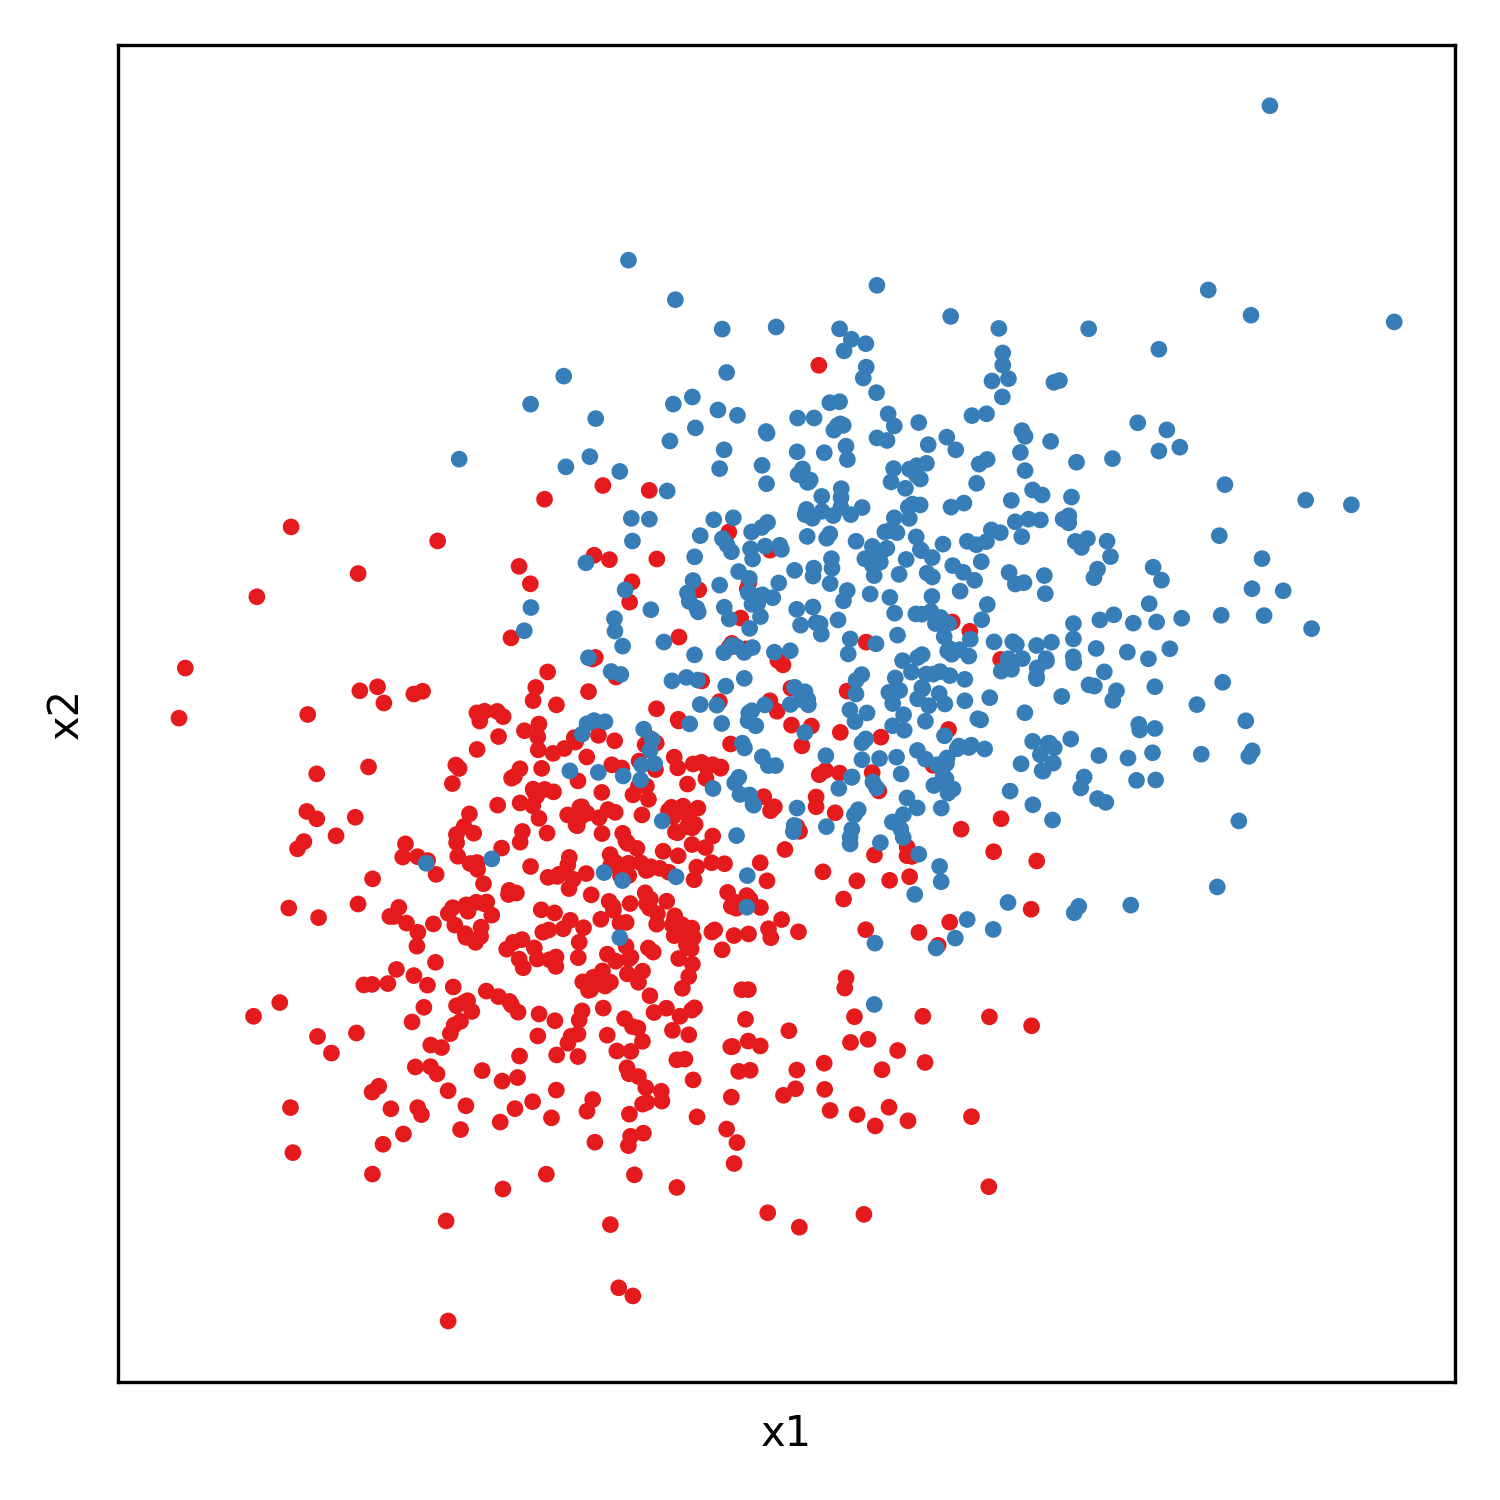
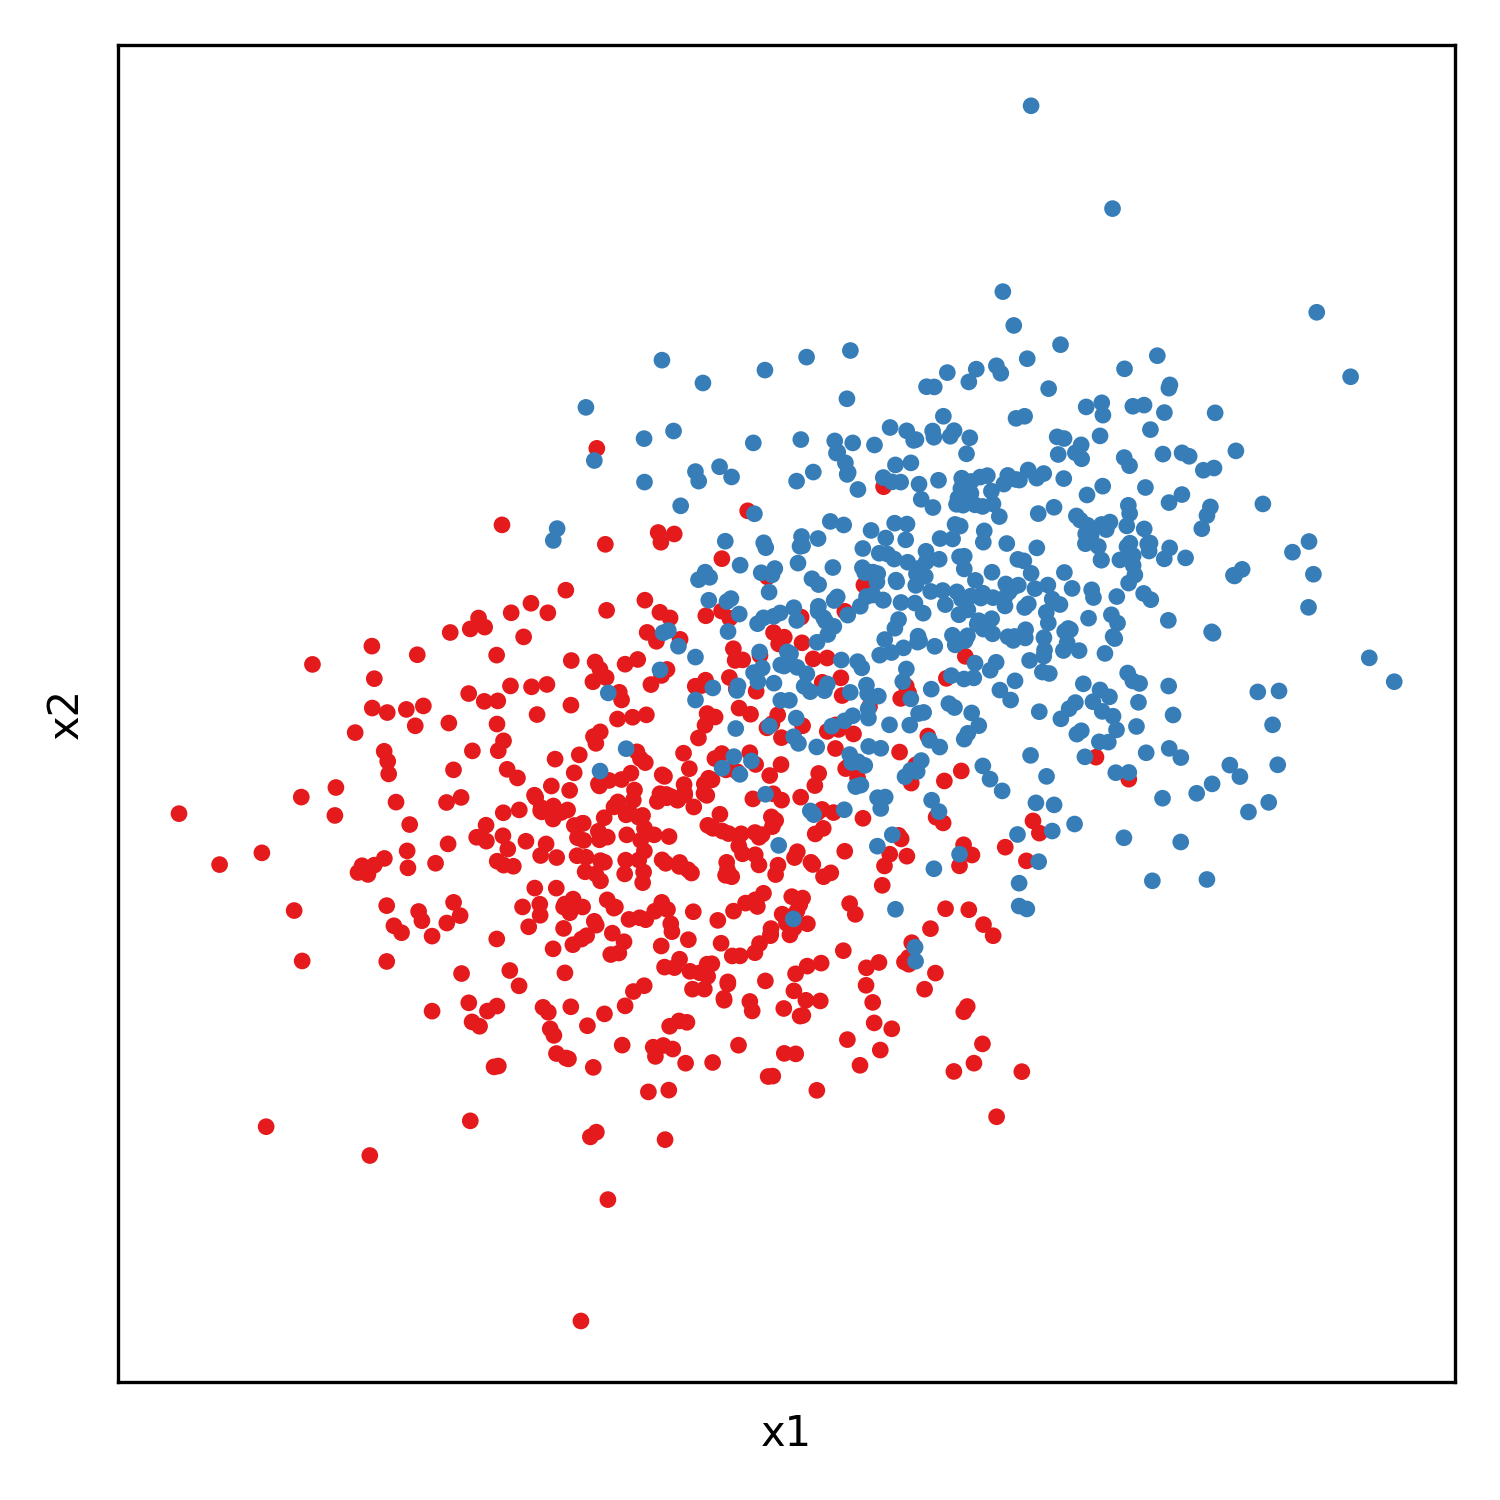
modified k nearest neighbours and target functions

diff --git a/introduction_to_machine_learning/images/k_nearest_neighbours/k_nearest_neighbours.py b/introduction_to_machine_learning/images/k_nearest_neighbours/k_nearest_neighbours.py
@@ -3,19 +3,15 @@ from mpl_toolkits import mplot3d
 import matplotlib.pyplot as plt
 import pathlib
 import IPython
+import matplotlib as mpl
 
 path = pathlib.Path(__file__).parent
 
+import sys
+sys.path.append(str(path.parent))
+from models_data import target, regression_data, classification_data
+
 # regression
-N = 1000
-Xobs = np.random.uniform(-1, 1, size=(N, 2))
-
-
-def target(X) -> np.ndarray:
-    x = X[..., None]
-    mu0, s0 = np.array([[-0.5, -0.5]]), 0.3
-    mu1, s1 = np.array([[0.5, 0.5]]), 0.3
-    return np.exp(-0.5*(np.sum(((X - mu0)/s0)**2, axis=-1))) - np.exp(-0.5*(np.sum(((X - mu1)/s1)**2, axis=-1)))
 
 
 def model(X: np.ndarray, Xobs: np.ndarray, Yobs: np.ndarray, k: int) -> np.ndarray:
@@ -24,16 +20,15 @@ def model(X: np.ndarray, Xobs: np.ndarray, Yobs: np.ndarray, k: int) -> np.ndarr
     return np.mean(Yobs[neighbours], axis=1)
 
 
-Yobs = target(Xobs) + np.random.normal(0, 0.1, size=Xobs.shape[0])
+Xobs, Yobs = regression_data()
 
 X = np.stack(np.meshgrid(np.linspace(-1, 1, 100), np.linspace(-1, 1, 100)), axis=-1)
 Y = model(X.reshape(-1, 2), Xobs, Yobs, k=5).reshape(X.shape[:2])
 
-f = plt.figure(figsize=[10, 5])
-ax = f.add_subplot(121, projection="3d")
-ax.scatter(Xobs[:, 0], Xobs[:, 1], Yobs, marker=".", color="k", depthshade=False, zorder=1)
+f = plt.figure(figsize=[5, 5])
+ax = f.add_subplot(111, projection="3d")
 
-ax.plot_surface(X[..., 0], X[..., 1], Y, cmap="cividis", zorder=0)
+ax.plot_surface(X[..., 0], X[..., 1], Y, rstride=1, cstride=1, cmap="viridis", zorder=0)
 ax.set_xticks([])
 ax.set_yticks([])
 ax.set_zticks([])
@@ -41,13 +36,15 @@ ax.set_xlabel("X1")
 ax.set_ylabel("X2")
 ax.set_zlabel("Y")
 
+f.savefig(path / "k_nearest_regression.png", transparent=True, dpi=300)
+
 
 # classification
-ax = f.add_subplot(122)
-Xa = np.random.multivariate_normal([-0.4, -0.4], [[0.2, 0.], [0., 0.2]], size=100)
-Xb = np.random.multivariate_normal([0.4, 0.4], [[0.2, 0.], [0., 0.2]], size=100)
-Xobs = np.concatenate([Xa, Xb], axis=0)
-Yobs = np.concatenate([np.zeros(len(Xa)), np.ones(len(Xb))])
+f, ax = plt.subplots(figsize=[5, 5])
+Xobs, Yobs = classification_data()
+is_b = Yobs.astype(bool)
+Xa, Xb = Xobs[~is_b], Xobs[is_b]
+X = np.stack(np.meshgrid(np.linspace(-2, 2, 500), np.linspace(-2, 2, 500)), axis=-1)
 Y = model(X.reshape(-1, 2), Xobs, Yobs, k=3).reshape(X.shape[:2])
 
 R = Y < 0.5
@@ -56,18 +53,17 @@ B = np.zeros(Y.shape)
 image = np.stack([R, G, B], axis=-1)
 image = (image * 55 + [[[200, 200, 200]]]).astype("uint8")
 
-ax.imshow(image)
-ax.scatter((Xa[:, 0]+1)/2*len(image), (Xa[:, 1]+1)/2*len(image), marker="o", color="r")
-ax.scatter((Xb[:, 0]+1)/2*len(image), (Xb[:, 1]+1)/2*len(image), marker="v", color="g")
-ax.set_xlim([0, image.shape[1]])
-ax.set_ylim([0, image.shape[0]])
+ax.imshow(image, extent=(-2, 2, -2, 2), origin="lower")
+ax.scatter(Xobs[..., 0], Xobs[..., 1], c=[mpl.cm.Set1.colors[int(i)] for i in Yobs], marker=".")
+ax.set_xlim([-2, 2])
+ax.set_ylim([-2, 2])
 ax.set_xticks([])
 ax.set_yticks([])
 ax.set_xlabel("X1")
 ax.set_ylabel("X2")
 ax.yaxis.set_label_position("right")
 
-f.savefig(path / "k_nearest.png")
+f.savefig(path / "k_nearest_classification.png", transparent=True, dpi=300)
 
 plt.show()
 

diff --git a/introduction_to_machine_learning/images/target_function/target_function.py b/introduction_to_machine_learning/images/target_function/target_function.py
@@ -3,31 +3,12 @@ import matplotlib as mpl
 import matplotlib.pyplot as plt
 import numpy as np
 import pathlib
-from typing import Tuple
 
 path = pathlib.Path(__file__).parent
 
-
-def target(X) -> np.ndarray:
-    new_shape = [1]*len(X.shape[:-1]) + [X.shape[-1]]
-    mu0, s0 = np.array([-0.5, -0.5]).reshape(new_shape), 0.3
-    mu1, s1 = np.array([0.5, 0.5]).reshape(new_shape), 0.3
-    return np.exp(-0.5*(np.sum(((X - mu0)/s0)**2, axis=-1))) - np.exp(-0.5*(np.sum(((X - mu1)/s1)**2, axis=-1)))
-
-
-def regression_data() -> Tuple[np.ndarray, np.ndarray]:
-    Xobs = np.stack([np.random.uniform(-1, 1, 1000), np.random.uniform(-1, 1, 1000)], axis=-1)
-    Yobs = target(Xobs)
-    Yobs += np.random.normal(0, 0.1, size=Xobs.shape[0])
-    return Xobs, Yobs
-
-
-def classification_data() -> Tuple[np.ndarray, np.ndarray]:
-    Xa = np.random.multivariate_normal([-0.5, -0.5], [[0.3, 0.], [0., 0.3]], size=500)
-    Xb = np.random.multivariate_normal([0.5, 0.5], [[0.3, 0.], [0., 0.3]], size=500)
-    Xobs = np.concatenate([Xa, Xb], axis=0)
-    Yobs = np.concatenate([np.zeros(len(Xa)), np.ones(len(Xb))])
-    return Xobs, Yobs
+import sys
+sys.path.append(str(path.parent))
+from models_data import target, regression_data, classification_data
 
 # regression
 

diff --git a/introduction_to_machine_learning/images/models_data.py b/introduction_to_machine_learning/images/models_data.py
@@ -1,0 +1,24 @@
+import numpy as np
+from typing import Tuple
+
+
+def target(X) -> np.ndarray:
+    new_shape = [1]*len(X.shape[:-1]) + [X.shape[-1]]
+    mu0, s0 = np.array([-0.5, -0.5]).reshape(new_shape), 0.3
+    mu1, s1 = np.array([0.5, 0.5]).reshape(new_shape), 0.3
+    return np.exp(-0.5*(np.sum(((X - mu0)/s0)**2, axis=-1))) - np.exp(-0.5*(np.sum(((X - mu1)/s1)**2, axis=-1)))
+
+
+def regression_data() -> Tuple[np.ndarray, np.ndarray]:
+    Xobs = np.stack([np.random.uniform(-1, 1, 1000), np.random.uniform(-1, 1, 1000)], axis=-1)
+    Yobs = target(Xobs)
+    Yobs += np.random.normal(0, 0.1, size=Xobs.shape[0])
+    return Xobs, Yobs
+
+
+def classification_data() -> Tuple[np.ndarray, np.ndarray]:
+    Xa = np.random.multivariate_normal([-0.5, -0.5], [[0.3, 0.], [0., 0.3]], size=500)
+    Xb = np.random.multivariate_normal([0.5, 0.5], [[0.3, 0.], [0., 0.3]], size=500)
+    Xobs = np.concatenate([Xa, Xb], axis=0)
+    Yobs = np.concatenate([np.zeros(len(Xa)), np.ones(len(Xb))])
+    return Xobs, Yobs

diff --git a/introduction_to_machine_learning/introduction_to_machine_learning.md b/introduction_to_machine_learning/introduction_to_machine_learning.md
@@ -68,7 +68,7 @@ There exist a lot of variations, some more complex involving keeping the n best 
 
 This algorithm is less often used than gradient descent because it usually requires more function evaluation to obtain the same results, due to the fact that displacements are random and not guided by a "slope". However it has the adventage of handling non-diferentiable cost functions and integer parameters natively.
 
-## An history of commonly used machine learning models
+## An overview of commonly used machine learning models
 
 In this section we will describe the most commonly used machine learning models for application to tabular data. We will fit each regression model on 1000 noisy observations from the function y = exp(((x1-0.5)/0.3)^2 + ((x2-0.5)/0.3)^2) - exp(((x1+0.5)/0.3)^2 + ((x2+0.5)/0.3)
 
